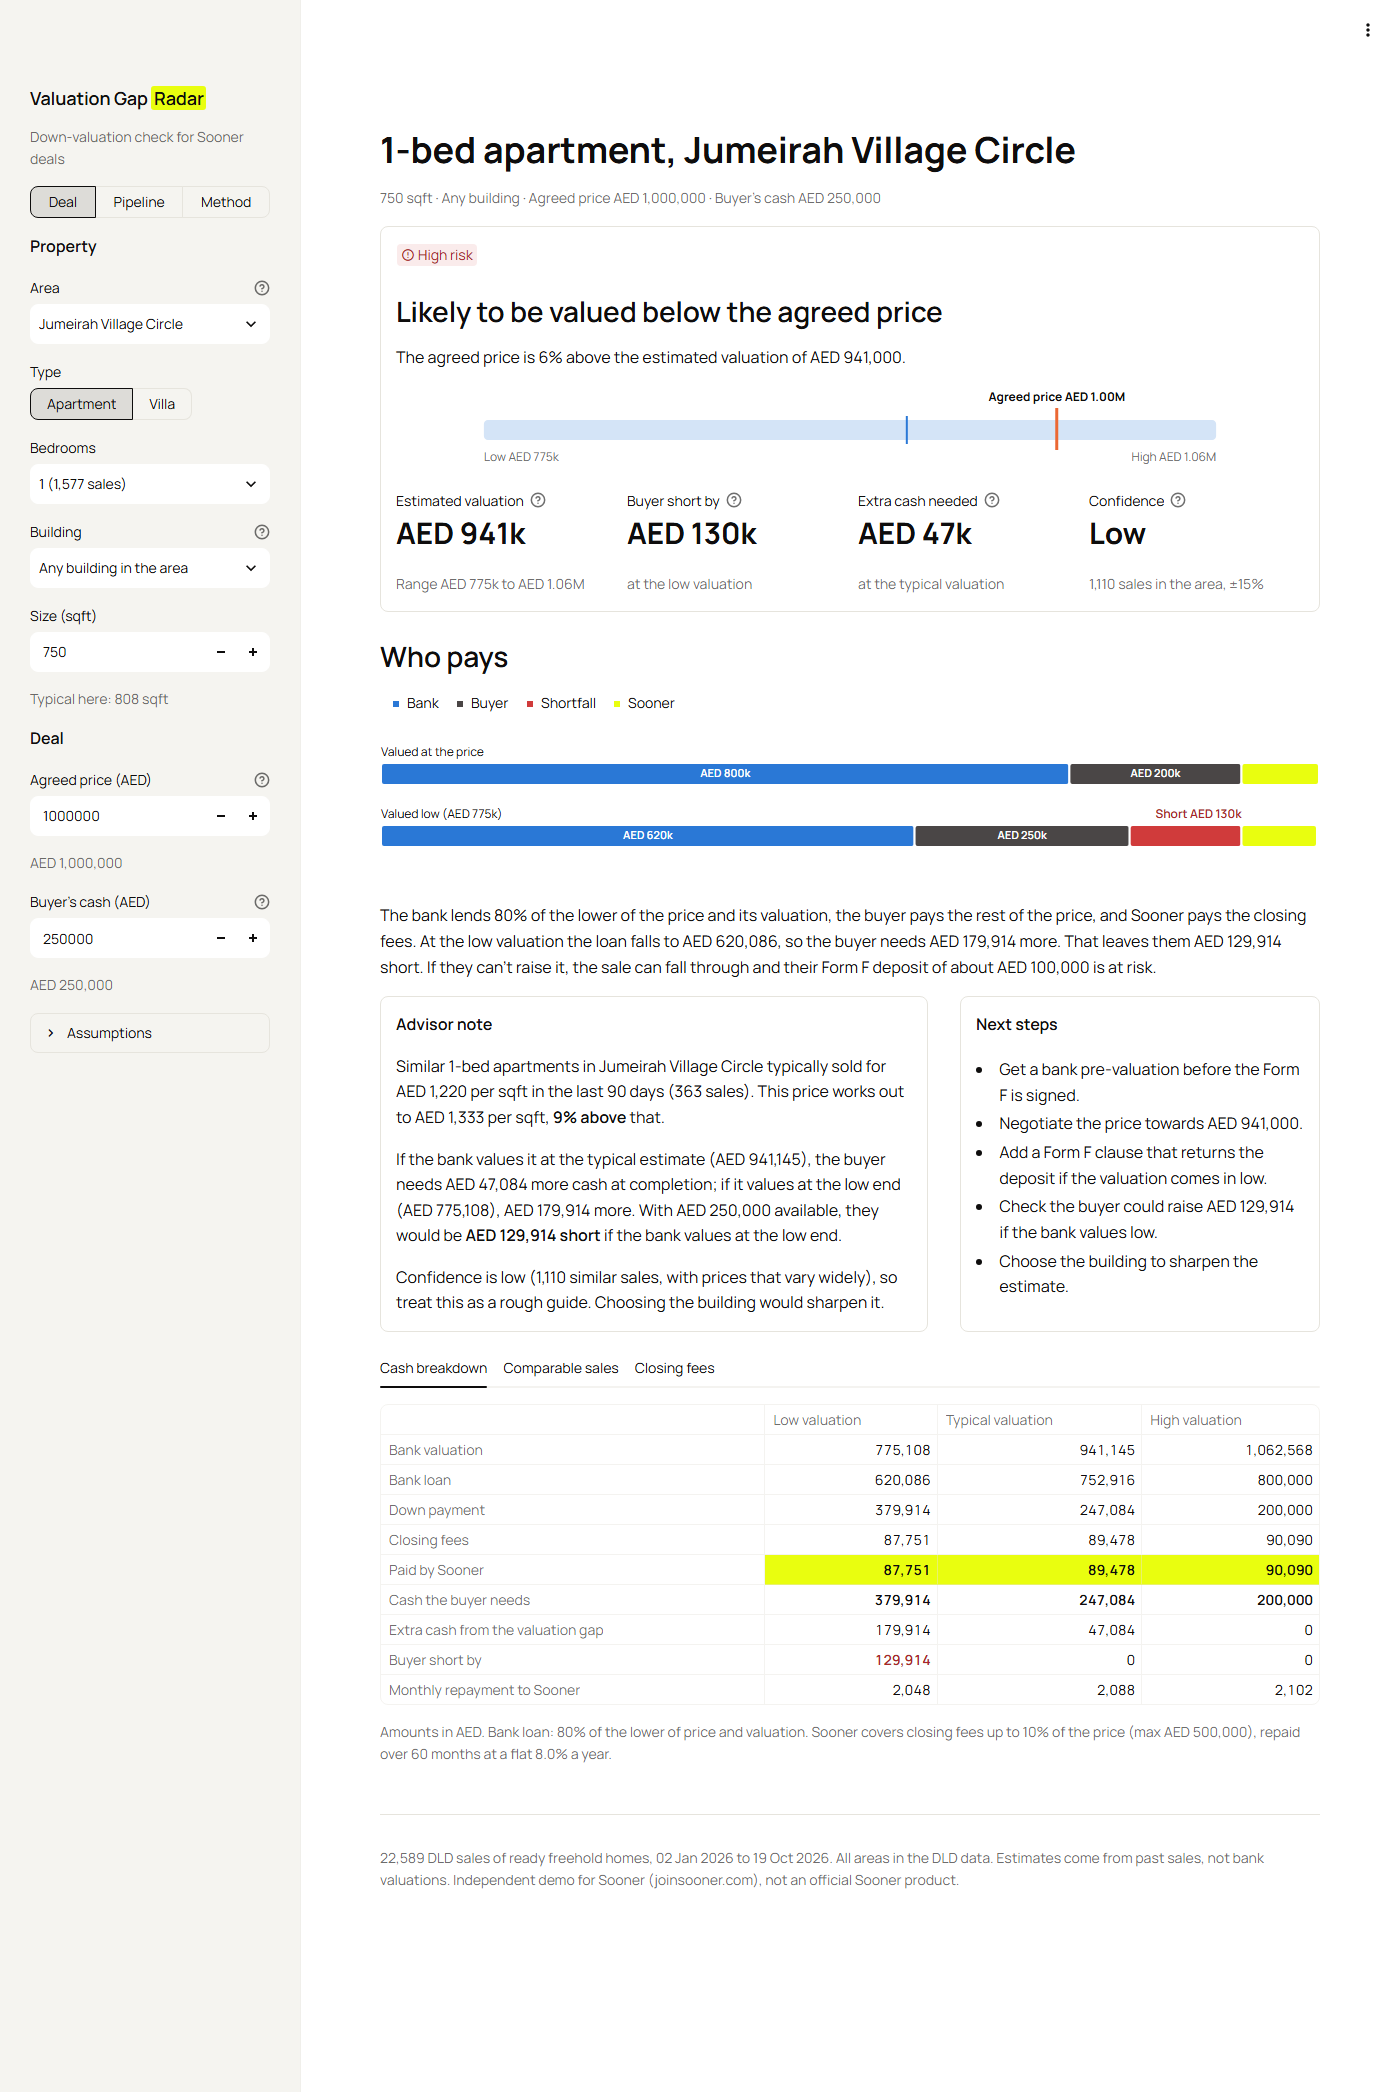
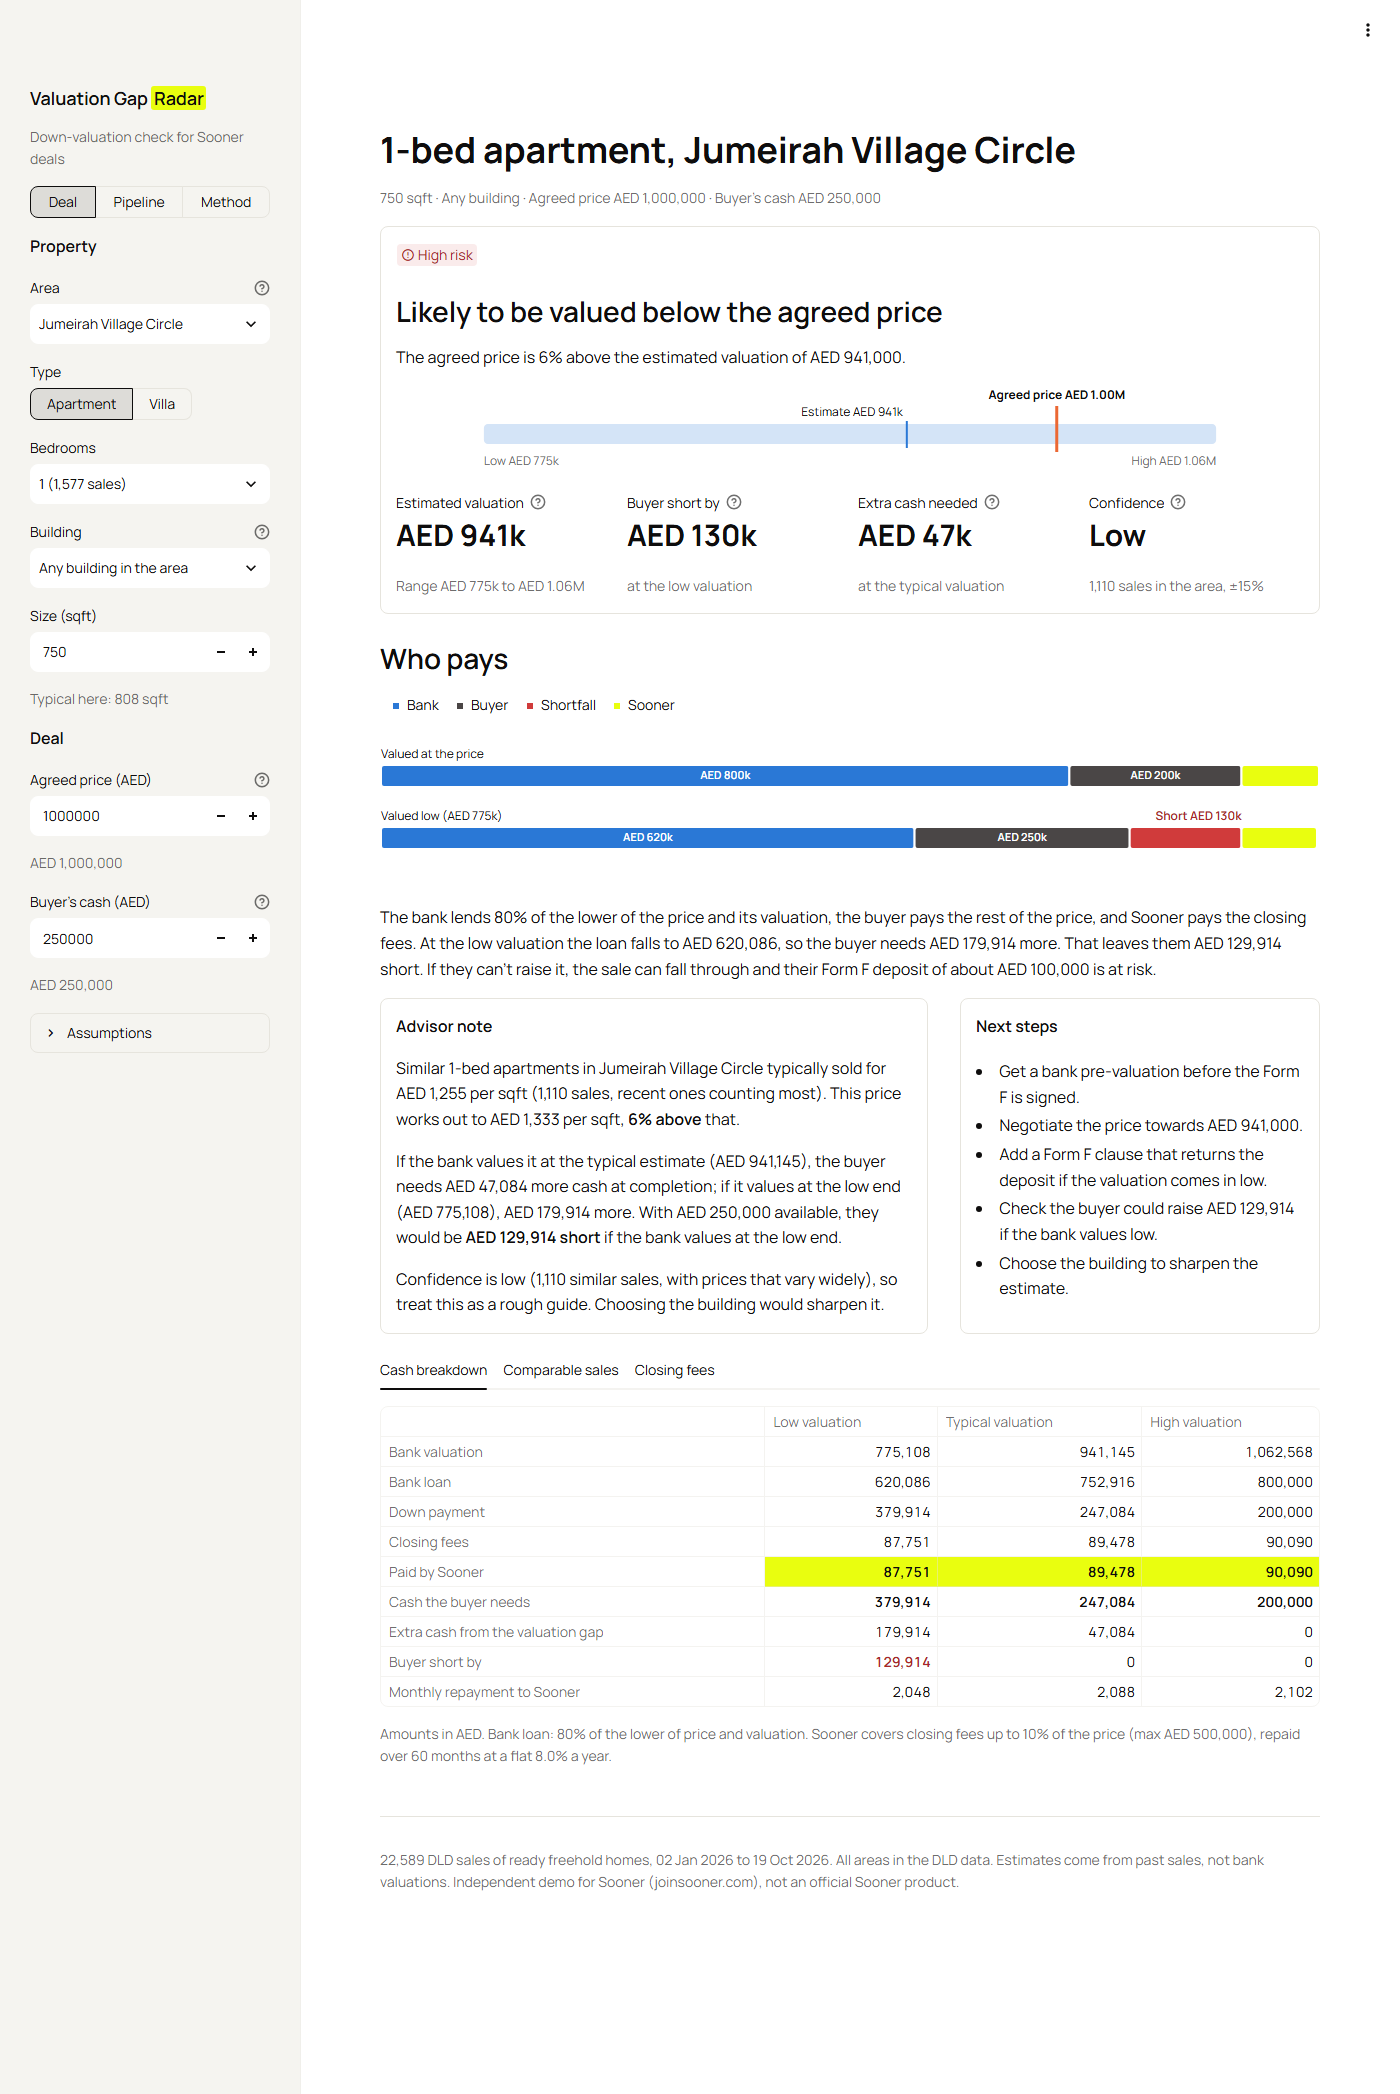
Make every percentage agree, and label the estimate on the range strip
The advisor note compared the price with the median of the last 90 days,
while the headline and the pipeline table compare it with the estimate
(all similar sales, recent ones counting most). The same deal could read
"6% above" in the headline and "9% above" in the note, and three example
deals even disagreed on the direction.

- advisor.py: the note uses the estimate and the risk premium, so its
  percentage always matches the headline. The unused 90-day figure is
  removed from comps.py and config.py
- New test: the note gives the same percentage as the headline
- Range strip: the blue tick is labelled "Estimate AED 941k" on its own
  row, running away from the price line, so no two labels overlap
- README quote, test count and screenshots updated

diff --git a/app.py b/app.py
@@ -341,9 +341,10 @@ def comps_source(est, d: dict) -> str:
 def range_chart(est, price: float, c: dict) -> alt.Chart:
     """A strip showing where the agreed price sits against the likely valuation range.
 
-    Blue band = low to high valuation, blue tick = typical (shown in the tile
-    below and on hover), orange line = the agreed price. Only the price and the
-    band's ends are labelled, so labels don't collide even on a phone.
+    Blue band = low to high valuation, blue tick = the estimate, orange line =
+    the agreed price. The price label sits on the top row and the estimate label
+    on the row below it, running away from the price line, so no two labels
+    collide, even on a phone. The band's ends are labelled underneath.
     """
     lo, mid, hi = est.value_p25, est.value_median, est.value_p75
     left, right = min(lo, price), max(hi, price)
@@ -354,37 +355,45 @@ def range_chart(est, price: float, c: dict) -> alt.Chart:
     def at(value):  # position across the strip, 0 to 1
         return (value - start) / (end - start)
 
+    band_top, band_bottom = 38, 58  # pixels from the top; label rows sit above and below
     band = alt.Chart(pd.DataFrame({"lo": [lo], "hi": [hi]})).mark_rect(
         color=c["comps"], opacity=c["band"], cornerRadius=4
     ).encode(
-        x=alt.X("lo:Q", scale=scale, axis=None), x2="hi:Q", y=alt.value(34), y2=alt.value(54),
+        x=alt.X("lo:Q", scale=scale, axis=None), x2="hi:Q", y=alt.value(band_top), y2=alt.value(band_bottom),
         tooltip=[alt.Tooltip("lo:Q", title="Low valuation (AED)", format=",.0f"),
                  alt.Tooltip("hi:Q", title="High valuation (AED)", format=",.0f")],
     )
-    typical_tick = alt.Chart(pd.DataFrame({"v": [mid]})).mark_rule(color=c["comps"], strokeWidth=2).encode(
-        x=alt.X("v:Q", scale=scale, axis=None), y=alt.value(30), y2=alt.value(58),
-        tooltip=[alt.Tooltip("v:Q", title="Typical valuation (AED)", format=",.0f")],
+    estimate_tick = alt.Chart(pd.DataFrame({"v": [mid]})).mark_rule(color=c["comps"], strokeWidth=2).encode(
+        x=alt.X("v:Q", scale=scale, axis=None), y=alt.value(band_top - 3), y2=alt.value(band_bottom + 4),
+        tooltip=[alt.Tooltip("v:Q", title="Estimated valuation (AED)", format=",.0f")],
     )
     price_line = alt.Chart(pd.DataFrame({"v": [price]})).mark_rule(color=c["deal"], strokeWidth=3).encode(
-        x=alt.X("v:Q", scale=scale, axis=None), y=alt.value(22), y2=alt.value(64),
+        x=alt.X("v:Q", scale=scale, axis=None), y=alt.value(20), y2=alt.value(band_bottom + 8),
         tooltip=[alt.Tooltip("v:Q", title="Agreed price (AED)", format=",.0f")],
     )
 
-    def label(value, text, align, y, color, weight="normal"):
+    def label(value, text, align, y, color, weight="normal", dx=0):
         return alt.Chart(pd.DataFrame({"v": [value], "t": [text]})).mark_text(
-            align=align, baseline="bottom" if y < 34 else "top", color=color, fontWeight=weight, fontSize=12,
+            align=align, baseline="bottom" if y < band_top else "top", color=color, fontWeight=weight, fontSize=12,
+            dx=dx,
         ).encode(x=alt.X("v:Q", scale=scale, axis=None), y=alt.value(y), text="t:N")
 
     price_align = "left" if at(price) < 0.25 else "right" if at(price) > 0.75 else "center"
-    labels = [label(price, f"Agreed price {aed_short(price)}", price_align, 18, c["ink"], "bold")]
+    # The estimate label runs away from the price line, a few pixels clear of it, so the
+    # line never crosses the text, even when the price equals the estimate.
+    estimate_align, estimate_dx = ("right", -4) if price >= mid else ("left", 4)
+    labels = [label(price, f"Agreed price {aed_short(price)}", price_align, 16, c["ink"], "bold"),
+              label(mid, f"Estimate {aed_short(mid)}", estimate_align, band_top - 5, c["ink"], dx=estimate_dx)]
+    below = band_bottom + 12
     if at(hi) - at(lo) < 0.55:  # narrow band: one label for the whole range
-        labels.append(label((lo + hi) / 2, f"Likely {aed_short(lo)} to {aed_short(hi)}", "center", 66, c["muted"]))
+        labels.append(label((lo + hi) / 2, f"Likely {aed_short(lo)} to {aed_short(hi)}", "center", below,
+                            c["muted"]))
     else:
-        labels.append(label(lo, f"Low {aed_short(lo)}", "left", 66, c["muted"]))
-        labels.append(label(hi, f"High {aed_short(hi)}", "right", 66, c["muted"]))
+        labels.append(label(lo, f"Low {aed_short(lo)}", "left", below, c["muted"]))
+        labels.append(label(hi, f"High {aed_short(hi)}", "right", below, c["muted"]))
 
-    return (alt.layer(band, typical_tick, price_line, *labels)
-            .properties(height=86)
+    return (alt.layer(band, estimate_tick, price_line, *labels)
+            .properties(height=band_bottom + 30)
             .configure_view(stroke=None))
 
 

diff --git a/radar/advisor.py b/radar/advisor.py
@@ -1,7 +1,7 @@
 """Plain-English advisor note for one deal, in the words a mortgage adviser would use.
 
 The note has up to four parts:
-1. how the price compares with recent similar sales (per sqft, as Dubai quotes it)
+1. how the price compares with similar sales (per sqft, as Dubai quotes it)
 2. what a low valuation would mean for the buyer's cash
 3. what to do about it (Medium and High risk only; optional)
 4. a warning when the estimate itself is uncertain (Low confidence only)
@@ -48,19 +48,19 @@ def advisor_note(*, area: str, property_type: str, bedrooms: int, size_sqm: floa
         place = area
     paragraphs = []
 
-    # 1. The price against recent sales.
+    # 1. The price against similar sales. It uses the same estimate as the risk
+    # level, so the percentage here always matches the one in the headline.
     deal_psf = per_sqft(price / size_sqm)
-    if estimate.recent_count >= config.MIN_COMPS:
-        ref_psf = per_sqft(estimate.recent_ppsqm)
-        when = f"in the last {config.RECENT_DAYS} days ({estimate.recent_count} sales)"
+    typical_psf = per_sqft(estimate.ppsqm_median)
+    if abs(risk.premium) < 0.005:
+        comparison = "in line with that"
     else:
-        ref_psf = per_sqft(estimate.ppsqm_median)
-        when = f"over the past months ({estimate.n_comps:,} sales, recent ones weighted most)"
-    diff = deal_psf / ref_psf - 1
-    direction = "above" if diff >= 0 else "below"
+        direction = "above" if risk.premium > 0 else "below"
+        comparison = f"**{abs(risk.premium):.0%} {direction}** that"
     paragraphs.append(
-        f"Similar {home} in {place} typically sold for AED {ref_psf:,.0f} per sqft {when}. "
-        f"This price works out to AED {deal_psf:,.0f} per sqft, **{abs(diff):.0%} {direction}** that."
+        f"Similar {home} in {place} typically sold for AED {typical_psf:,.0f} per sqft "
+        f"({estimate.n_comps:,} sales, recent ones counting most). "
+        f"This price works out to AED {deal_psf:,.0f} per sqft, {comparison}."
     )
 
     # 2. What a low valuation would cost the buyer.

diff --git a/tests/test_advisor.py b/tests/test_advisor.py
@@ -46,9 +46,24 @@ def test_high_risk_note_gives_the_cash_at_stake_and_what_to_do():
 def test_low_risk_note_is_reassuring():
     note = note_for(price=700_000, cash_available=150_000)
 
-    assert "0% above" in note
+    assert "in line with that" in note
     assert "unlikely" in note
     assert "Form F" not in note
+
+
+def test_note_gives_the_same_percentage_as_the_headline():
+    # Older sales were dearer, so the last few months alone would give a different
+    # answer from the estimate, which weighs every similar sale by how recent it is.
+    older = make_sales(8).assign(date=pd.Timestamp("2026-04-01"), price_aed=840_000.0, price_per_sqm=12_000.0)
+    sales = pd.concat([older, make_sales(4)], ignore_index=True)
+    est = estimate_value(sales, "JVC", "Apartment", 1, 70)
+    risk = gap_risk(800_000, est)
+    scenarios = scenario_table(800_000, est.valuations, 150_000)
+    note = advisor_note(area="JVC", property_type="Apartment", bedrooms=1, size_sqm=70, price=800_000,
+                        cash_available=150_000, estimate=est, risk=risk, scenarios=scenarios)
+
+    direction = "above" if risk.premium > 0 else "below"
+    assert f"**{abs(risk.premium):.0%} {direction}**" in note
 
 
 def test_a_price_far_below_the_estimate_asks_to_check_the_inputs():

diff --git a/radar/comps.py b/radar/comps.py
@@ -34,8 +34,6 @@ class Estimate:
     value_p75: float
     spread: float  # (P75 - P25) / median: how much the comps disagree
     confidence: str  # "High", "Medium" or "Low"
-    recent_ppsqm: float | None  # median price per sqm in the last 90 days, if any
-    recent_count: int
 
     @property
     def n_comps(self) -> int:
@@ -114,7 +112,6 @@ def estimate_value(sales, area, property_type, bedrooms, size_sqm, project=None,
     comps = comps.assign(weight=recency_weights(comps["date"], as_of))
     p25, median, p75 = weighted_percentiles(comps["price_per_sqm"], comps["weight"], [0.25, 0.5, 0.75])
     spread = (p75 - p25) / median
-    recent = comps[comps["date"] > as_of - pd.Timedelta(days=config.RECENT_DAYS)]
 
     return Estimate(
         comps=comps.sort_values("date", ascending=False),
@@ -127,8 +124,6 @@ def estimate_value(sales, area, property_type, bedrooms, size_sqm, project=None,
         value_p75=p75 * size_sqm,
         spread=spread,
         confidence=confidence_level(len(comps), spread),
-        recent_ppsqm=recent["price_per_sqm"].median() if len(recent) else None,
-        recent_count=len(recent),
     )
 
 

diff --git a/radar/config.py b/radar/config.py
@@ -91,7 +91,6 @@ SAMPLE_AREAS = 10
 MIN_COMPS = 3  # with fewer comps we don't estimate at all
 MIN_PROJECT_COMPS = 5  # use same-project comps only when there are at least this many
 RECENCY_HALF_LIFE_DAYS = 120  # a sale this many days old counts half as much as today's
-RECENT_DAYS = 90  # window for the "sold in the last 90 days" figure
 
 # Confidence: enough comps, agreeing closely. Spread = (P75 - P25) / median.
 HIGH_CONFIDENCE_COMPS = 10

diff --git a/README.md b/README.md
@@ -53,10 +53,11 @@ rather than P25, median and P75, "similar sales" rather than comps.
   low, each split into the bank's loan, the buyer's cash, any shortfall and the
   fees Sooner pays, with the Form F deposit at stake
 - an **advisor note** in plain words, for example: *"Similar 1-bed apartments
-  in Jumeirah Village Circle typically sold for AED 1,220 per sqft in the last
-  90 days (363 sales). This price works out to AED 1,333 per sqft, 9% above
-  that."*, and **next steps** that fit the risk level (pre-valuation,
-  negotiate, a Form F clause, choose the building)
+  in Jumeirah Village Circle typically sold for AED 1,255 per sqft (1,110
+  sales, recent ones counting most). This price works out to AED 1,333 per
+  sqft, 6% above that."*, and **next steps** that fit the risk level
+  (pre-valuation, negotiate, a Form F clause, choose the building). Every
+  percentage on the page comes from the same estimate, so they always agree
 - three tabs of detail: the **cash breakdown** at the low, typical and high
   valuation (loan, down payment, closing fees, what Sooner pays, shortfall,
   monthly repayment), the **comparable sales** chart and list, and the
@@ -250,7 +251,7 @@ python -m radar.backtest   # optional: re-check accuracy (about 30 seconds)
 
 Commit the new `sales.parquet` and the deployed app picks it up.
 
-Run the 56 tests with `pytest`. They cover the fee and cash maths (checked
+Run the 57 tests with `pytest`. They cover the fee and cash maths (checked
 against Sooner's own published examples and hand-worked figures), comp
 selection and weighting, the ETL rules, the advisor note, batch mode, and smoke
 tests that run each of the app's three views.
